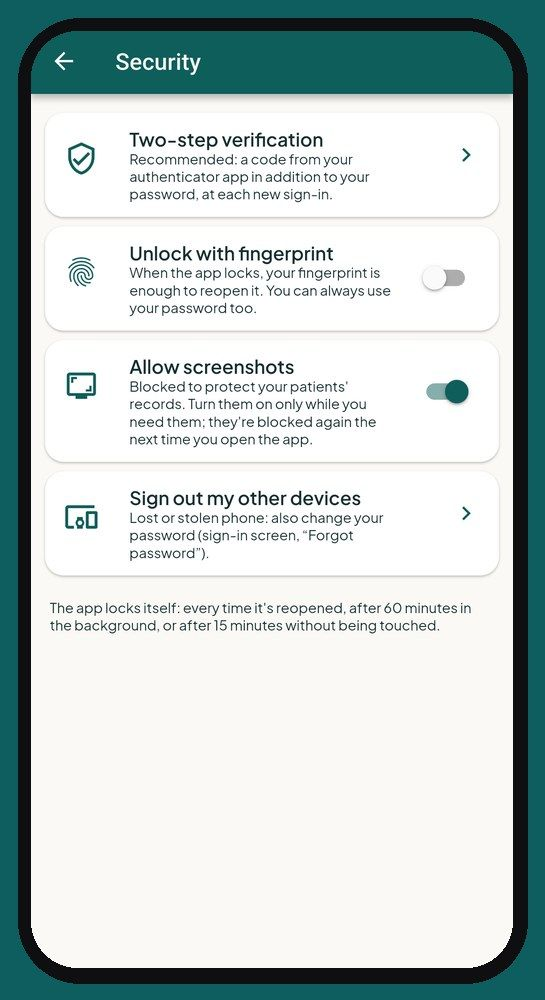
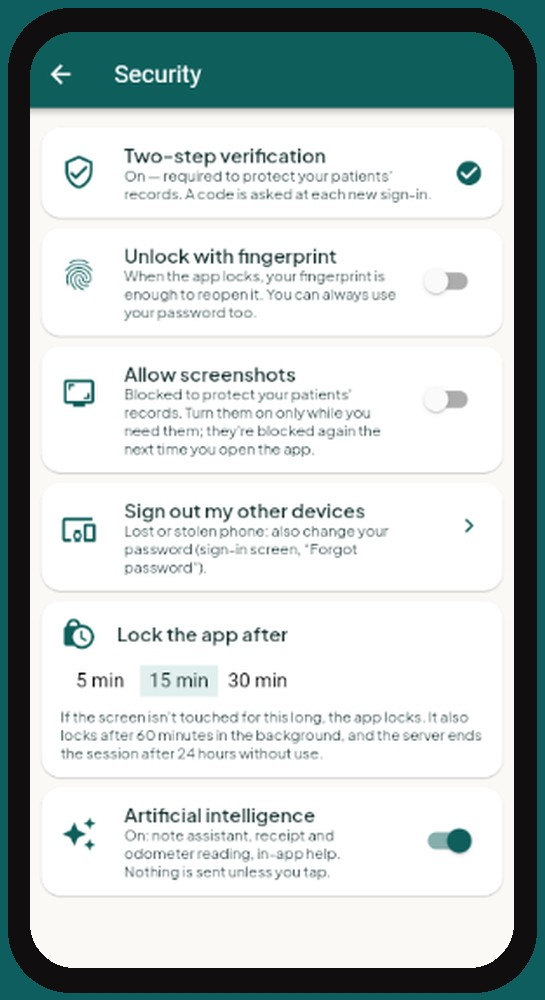
Sécurité FR + EN : blocage après 5 mots de passe, désactiver l'IA, Signaler un résultat ; capture de l'écran Sécurité à jour (version 401)
Claude-Session: https://claude.ai/code/session_01Gq2MXuAbqCAnZbCt8wReRH

diff --git a/securite-loi-25.html b/securite-loi-25.html
@@ -75,11 +75,11 @@ footer a{color:#FFFFFF;padding:10px 0}
 <ul class="confiance" style="list-style:none;padding:0;margin:14px 0 6px;display:flex;flex-wrap:wrap;gap:6px 16px"><li style="list-style:none"><a href="#loi25" style="display:inline-flex;align-items:center;gap:6px;font-weight:700;font-size:15px;color:#0E5E5C;text-decoration:none"><svg viewBox="0 0 24 24" width="18" height="18" aria-hidden="true" fill="none" stroke="#0E5E5C" stroke-width="1.8" stroke-linecap="round" stroke-linejoin="round"><path d="M12 2l8 3v6c0 5-3.5 9.5-8 11-4.5-1.5-8-6-8-11V5z"/><path d="M9 12l2 2 4-4"/></svg><span>Loi 25 et lois du Canada</span></a></li><li style="list-style:none"><a href="#canada" style="display:inline-flex;align-items:center;gap:6px;font-weight:700;font-size:15px;color:#0E5E5C;text-decoration:none"><svg viewBox="0 0 24 24" width="18" height="18" aria-hidden="true" fill="none" stroke="#0E5E5C" stroke-width="1.8" stroke-linecap="round" stroke-linejoin="round"><path d="M12 21s-7-6.2-7-11.5a7 7 0 0 1 14 0C19 14.8 12 21 12 21z"/><circle cx="12" cy="9.5" r="2.5"/></svg><span>Données au Canada</span></a></li><li style="list-style:none"><a href="#verrou" style="display:inline-flex;align-items:center;gap:6px;font-weight:700;font-size:15px;color:#0E5E5C;text-decoration:none"><svg viewBox="0 0 24 24" width="18" height="18" aria-hidden="true" fill="none" stroke="#0E5E5C" stroke-width="1.8" stroke-linecap="round" stroke-linejoin="round"><rect x="5" y="10" width="14" height="10" rx="2"/><path d="M8 10V7a4 4 0 0 1 8 0v3"/><circle cx="12" cy="15" r="1.5"/></svg><span>Double vérification</span></a></li><li style="list-style:none"><a href="#loi25" style="display:inline-flex;align-items:center;gap:6px;font-weight:700;font-size:15px;color:#0E5E5C;text-decoration:none"><svg viewBox="0 0 24 24" width="18" height="18" aria-hidden="true" fill="none" stroke="#0E5E5C" stroke-width="1.8" stroke-linecap="round" stroke-linejoin="round"><rect x="5" y="3" width="14" height="18" rx="2"/><path d="M9 8h6M9 12h6M9 16h4"/></svg><span>Journal des accès</span></a></li></ul>
 <h2 id="canada">Vos données restent au Canada</h2><p>Les fiches, notes, rendez-vous, factures, photos et documents sont hébergés au Canada, dans la région de Montréal. Ils sont chiffrés pendant l'envoi, et chaque professionnelle ou professionnel ne voit que ses propres données&nbsp;: le serveur refuse toute lecture des données d'un autre compte. Les photos de soins sont dans un espace privé.</p>
 <h2>Une copie de sécurité toutes les 10 minutes</h2><p>Toutes les 10 minutes, les nouvelles photos et les nouveaux documents de l'application sont copiés chez Backblaze, une autre entreprise que notre hébergeur principal. Cette copie est chiffrée et conservée au Canada (Toronto). Chaque semaine, des fichiers de la copie sont relus pour vérifier qu'ils se récupèrent sans erreur. Un fichier effacé de l'application est détruit de cette copie 7&nbsp;jours plus tard.</p>
-<h2 id="verrou">Une application qui se verrouille toute seule</h2><p>Mot de passe ou empreinte à la réouverture, verrouillage après 5, 15 ou 30 minutes sans être touchée (au choix), double vérification par code, captures d'écran bloquées par défaut sur Android (vous pouvez les permettre en tout temps, par exemple pour demander de l'aide : Paramètres → Sécurité) et déconnexion à distance de vos autres appareils en cas de perte ou de vol.</p><figure><img src="img/securite.jpg" alt="Écran Sécurité de CliniQ Pro : double vérification, empreinte, captures d&#x27;écran, autres appareils" width="545" height="1000" loading="lazy"><figcaption>Écran Sécurité de CliniQ Pro&nbsp;: double vérification, empreinte, captures d&#x27;écran, autres appareils</figcaption></figure>
+<h2 id="verrou">Une application qui se verrouille toute seule</h2><p>Mot de passe ou empreinte à la réouverture, verrouillage après 5, 15 ou 30 minutes sans être touchée (au choix), double vérification par code, captures d'écran bloquées par défaut sur Android (vous pouvez les permettre en tout temps, par exemple pour demander de l'aide : Paramètres → Sécurité) et déconnexion à distance de vos autres appareils en cas de perte ou de vol. Après 5&nbsp;mots de passe erronés, le compte est bloqué 15&nbsp;minutes et un courriel vous en avise.</p><figure><img src="img/securite.jpg" alt="Écran Sécurité de CliniQ Pro : double vérification, empreinte, captures d&#x27;écran, autres appareils, délai de verrouillage, intelligence artificielle" width="545" height="1000" loading="lazy"><figcaption>Écran Sécurité de CliniQ Pro&nbsp;: double vérification, empreinte, captures d&#x27;écran, autres appareils, délai de verrouillage, intelligence artificielle</figcaption></figure>
 <h2>Des notes que personne ne peut changer</h2><p>Une note finalisée est signée et verrouillée. Les corrections s'ajoutent en notes tardives, ce qui garde la trace de l'original. Les dossiers ne sont jamais effacés&nbsp;: on les archive.</p>
 <h2>Les consentements, notés et datés</h2><p>Consentement aux soins, ouverture du dossier, photos cliniques, communication à un tiers et rappels par texto&nbsp;: chaque réponse est gardée au dossier avec sa date, qu'elle vienne du patient ou de son représentant. Un retrait de consentement s'inscrit aussi.</p><figure><img src="img/consentements.jpg" alt="Consentements à demander dans CliniQ Pro (patiente fictive)" width="545" height="1000" loading="lazy"><figcaption>Consentements à demander dans CliniQ Pro (patiente fictive)</figcaption></figure>
 <h2 id="loi25">Tenue de dossiers et Loi 25&nbsp;: les registres déjà prêts</h2><p>Le journal des consultations (qui a ouvert quel dossier, et quand) et la trace de chaque copie de dossier remise à un patient sont tenus par l'application et ne peuvent être ni modifiés ni effacés.</p><figure><img src="img/confidentialite-regles.jpg" alt="Confidentialité et règles dans CliniQ Pro : politique, journal des consultations" width="545" height="885" loading="lazy"><figcaption>Confidentialité et règles dans CliniQ Pro&nbsp;: politique, journal des consultations</figcaption></figure>
-<h2>Transparence sur les services externes</h2><p>Une note clinique n'est envoyée à un service d'intelligence artificielle que si vous utilisez l'assistant de rédaction : ce que vous lui donnez est alors traité par OpenAI (États-Unis). Rien ne doit y permettre d'identifier le patient : ni nom, ni adresse, ni visage ou autre détail reconnaissable sur les photos. Pour le calcul des trajets, seules les adresses sont transmises, sans nom ni soins. Les rappels par texto ne contiennent jamais le nom du patient ni ses soins. La liste complète est dans notre <a href="confidentialite.html">politique de confidentialité</a>.</p>
+<h2>Transparence sur les services externes</h2><p>Une note clinique n'est envoyée à un service d'intelligence artificielle que si vous utilisez l'assistant de rédaction : ce que vous lui donnez est alors traité par OpenAI (États-Unis). Rien ne doit y permettre d'identifier le patient : ni nom, ni adresse, ni visage ou autre détail reconnaissable sur les photos. Pour le calcul des trajets, seules les adresses sont transmises, sans nom ni soins. Les rappels par texto ne contiennent jamais le nom du patient ni ses soins. La liste complète est dans notre <a href="confidentialite.html">politique de confidentialité</a>. Vous pouvez aussi désactiver toute l'intelligence artificielle pour votre compte, d'un seul geste&nbsp;: Paramètres → Sécurité. Et si une note proposée par l'assistant contient une erreur, le bouton «&nbsp;Signaler un résultat&nbsp;» nous l'indique, sans jamais nous envoyer la note.</p>
 <h2>Vos demandes et vos plaintes</h2><p>Pour consulter, corriger ou recevoir une copie de vos renseignements, demander qu'on cesse de les communiquer, ou faire une plainte sur la protection de vos renseignements, écrivez à <a href="mailto:rprp@cliniqpromobile.ca">rprp@cliniqpromobile.ca</a>. La responsable de la protection des renseignements personnels, Nancy Proulx, vous répond&nbsp;: accusé de réception en 2 jours ouvrables, réponse écrite en 30 jours au plus.</p><p>Vous êtes patiente ou patient d'une professionnelle ou d'un professionnel qui utilise CliniQ Pro&nbsp;? Votre dossier lui appartient&nbsp;: adressez-vous d'abord à elle ou à lui. Nous l'aiderons à vous répondre. Si notre réponse ne vous satisfait pas, vous pouvez vous adresser à la <a href="https://www.cai.gouv.qc.ca/" rel="noopener">Commission d'accès à l'information</a>.</p>
 <h2>Infirmières, infirmières auxiliaires et soins à domicile : la Loi 25 sur la route</h2>
 <p>À domicile, vos dossiers voyagent avec vous, dans l'auto et chez le patient. C'est là que les risques sont les plus grands&nbsp;: un téléphone oublié, une feuille qui traîne sur le siège, un membre de la famille qui répond au téléphone. CliniQ Pro est pensée pour ce quotidien&nbsp;:</p>

diff --git a/en/security-privacy.html b/en/security-privacy.html
@@ -75,11 +75,11 @@ footer a{color:#FFFFFF;padding:10px 0}
 <ul class="confiance" style="list-style:none;padding:0;margin:14px 0 6px;display:flex;flex-wrap:wrap;gap:6px 16px"><li style="list-style:none"><a href="#loi25" style="display:inline-flex;align-items:center;gap:6px;font-weight:700;font-size:15px;color:#0E5E5C;text-decoration:none"><svg viewBox="0 0 24 24" width="18" height="18" aria-hidden="true" fill="none" stroke="#0E5E5C" stroke-width="1.8" stroke-linecap="round" stroke-linejoin="round"><path d="M12 2l8 3v6c0 5-3.5 9.5-8 11-4.5-1.5-8-6-8-11V5z"/><path d="M9 12l2 2 4-4"/></svg><span>Privacy laws, incl. Law 25</span></a></li><li style="list-style:none"><a href="#canada" style="display:inline-flex;align-items:center;gap:6px;font-weight:700;font-size:15px;color:#0E5E5C;text-decoration:none"><svg viewBox="0 0 24 24" width="18" height="18" aria-hidden="true" fill="none" stroke="#0E5E5C" stroke-width="1.8" stroke-linecap="round" stroke-linejoin="round"><path d="M12 21s-7-6.2-7-11.5a7 7 0 0 1 14 0C19 14.8 12 21 12 21z"/><circle cx="12" cy="9.5" r="2.5"/></svg><span>Data in Canada</span></a></li><li style="list-style:none"><a href="#verrou" style="display:inline-flex;align-items:center;gap:6px;font-weight:700;font-size:15px;color:#0E5E5C;text-decoration:none"><svg viewBox="0 0 24 24" width="18" height="18" aria-hidden="true" fill="none" stroke="#0E5E5C" stroke-width="1.8" stroke-linecap="round" stroke-linejoin="round"><rect x="5" y="10" width="14" height="10" rx="2"/><path d="M8 10V7a4 4 0 0 1 8 0v3"/><circle cx="12" cy="15" r="1.5"/></svg><span>Two-step verification</span></a></li><li style="list-style:none"><a href="#loi25" style="display:inline-flex;align-items:center;gap:6px;font-weight:700;font-size:15px;color:#0E5E5C;text-decoration:none"><svg viewBox="0 0 24 24" width="18" height="18" aria-hidden="true" fill="none" stroke="#0E5E5C" stroke-width="1.8" stroke-linecap="round" stroke-linejoin="round"><rect x="5" y="3" width="14" height="18" rx="2"/><path d="M9 8h6M9 12h6M9 16h4"/></svg><span>Access log</span></a></li></ul>
 <h2 id="canada">Your data stays in Canada</h2><p>Patient details, notes, appointments, invoices, photos and documents are hosted in Canada, in the Montréal region. They are encrypted in transit, and each professional sees only her own data: the server refuses any read of another account's data. Care photos are kept in a private space.</p>
 <h2>A backup copy every 10 minutes</h2><p>Every 10 minutes, new photos and documents in the app are copied to Backblaze, a different company from our main host. The copy is encrypted and kept in Canada (Toronto). Every week, files from the copy are read back to check that they restore without errors. A file deleted from the app is destroyed from this copy 7&nbsp;days later.</p>
-<h2 id="verrou">An app that locks itself</h2><p>Password or fingerprint when reopening, lock after 5, 15 or 30 minutes untouched (your choice), two-step verification by code, screenshots blocked by default on Android (you can allow them at any time, for example to ask for help: Settings → Security), and remote sign-out of your other devices if your phone is lost or stolen.</p><figure><img src="../img/en/securite.jpg" alt="CliniQ Pro Security screen: two-step verification, fingerprint, screenshots, other devices" width="545" height="1000" loading="lazy"><figcaption>CliniQ Pro Security screen: two-step verification, fingerprint, screenshots, other devices</figcaption></figure>
+<h2 id="verrou">An app that locks itself</h2><p>Password or fingerprint when reopening, lock after 5, 15 or 30 minutes untouched (your choice), two-step verification by code, screenshots blocked by default on Android (you can allow them at any time, for example to ask for help: Settings → Security), and remote sign-out of your other devices if your phone is lost or stolen. After 5 wrong passwords, the account is locked for 15 minutes and an email lets you know.</p><figure><img src="../img/en/securite.jpg" alt="CliniQ Pro Security screen: two-step verification, fingerprint, screenshots, other devices, lock delay, artificial intelligence" width="545" height="1000" loading="lazy"><figcaption>CliniQ Pro Security screen: two-step verification, fingerprint, screenshots, other devices, lock delay, artificial intelligence</figcaption></figure>
 <h2>Notes nobody can change</h2><p>A finalized note is signed and locked. Corrections are added as late entries, which keeps the original. Records are never erased: they are archived.</p>
 <h2>Consents, recorded and dated</h2><p>Consent to care, opening the record, clinical photos, sharing with a third party and text reminders: each answer stays in the record with its date, whether it comes from the patient or a representative. A withdrawal of consent is recorded too.</p><figure><img src="../img/en/consentements.jpg" alt="Consents to ask for in CliniQ Pro (fictional patient)" width="545" height="1000" loading="lazy"><figcaption>Consents to ask for in CliniQ Pro (fictional patient)</figcaption></figure>
 <h2 id="loi25">Record keeping and privacy: the required registers, ready to use</h2><p>The access log (who opened which record, and when) and the record of every copy handed to a patient are kept by the app and can be neither changed nor erased.</p><figure><img src="../img/en/confidentialite-regles.jpg" alt="Privacy and rules in CliniQ Pro: policy, access log" width="545" height="892" loading="lazy"><figcaption>Privacy and rules in CliniQ Pro: policy, access log</figcaption></figure>
-<h2>Clear about outside services</h2><p>A clinical note is sent to an artificial intelligence service only if you use the note-writing assistant: what you give it is then processed by OpenAI (United States). Nothing in it may identify the patient: no name, no address, and no face or other recognizable detail in the photos. For travel calculations, only addresses are sent, with no name or care details. Text reminders never contain the patient's name or care. The full list is in our <a href="privacy.html">privacy policy</a>.</p>
+<h2>Clear about outside services</h2><p>A clinical note is sent to an artificial intelligence service only if you use the note-writing assistant: what you give it is then processed by OpenAI (United States). Nothing in it may identify the patient: no name, no address, and no face or other recognizable detail in the photos. For travel calculations, only addresses are sent, with no name or care details. Text reminders never contain the patient's name or care. The full list is in our <a href="privacy.html">privacy policy</a>. You can also turn off all artificial intelligence for your account in one step: Settings → Security. And if a note proposed by the assistant has a mistake, the “Report a result” button lets us know, without ever sending us the note.</p>
 <h2>Your requests and complaints</h2><p>To see, correct or get a copy of your information, ask us to stop sharing it, or make a complaint about how your information is protected, write to <a href="mailto:rprp@cliniqpromobile.ca">rprp@cliniqpromobile.ca</a>. Our privacy officer, Nancy Proulx, will answer you: acknowledgement within 2 business days, written answer within 30 days at most.</p><p>Are you the patient of a professional who uses CliniQ Pro? Your record belongs to them: please contact them first, and we will help them answer you. If our answer does not satisfy you, you can contact Quebec's <a href="https://www.cai.gouv.qc.ca/" rel="noopener">Commission d'accès à l'information</a> or, outside Quebec, the privacy commissioner of your province or the <a href="https://www.priv.gc.ca/" rel="noopener">Office of the Privacy Commissioner of Canada</a>.</p>
 <h2>Nurses, practical nurses and home care: privacy on the road</h2>
 <p>In home care, your records travel with you, in the car and at the patient's home. That is where the risks are greatest: a forgotten phone, a sheet left on the seat, a family member who answers the phone. CliniQ Pro is designed for that reality:</p>
